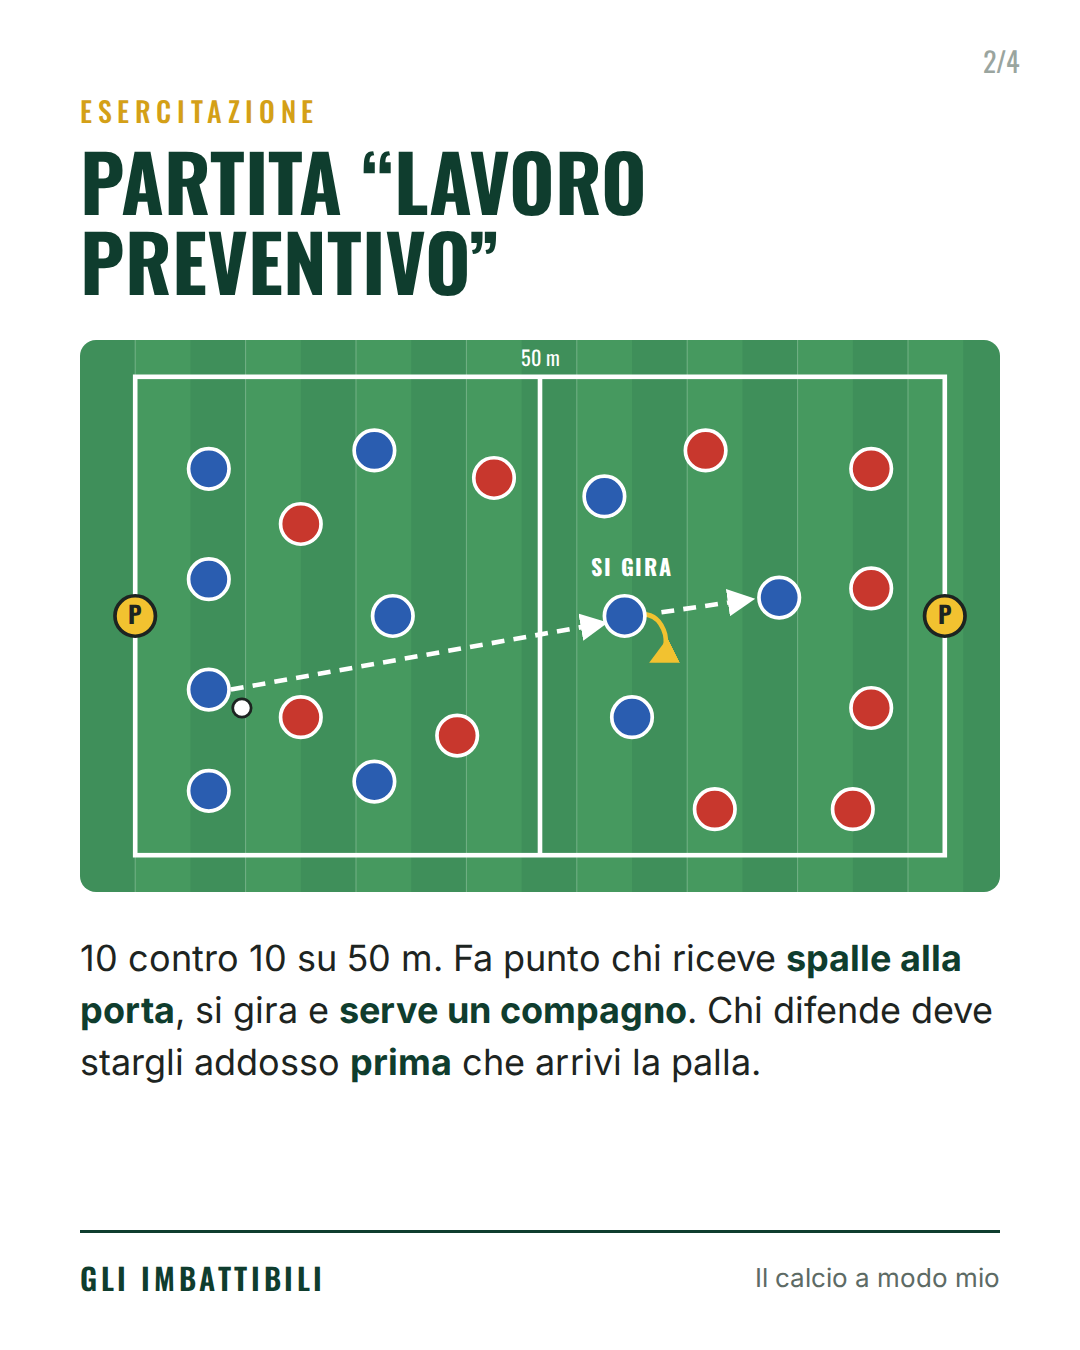
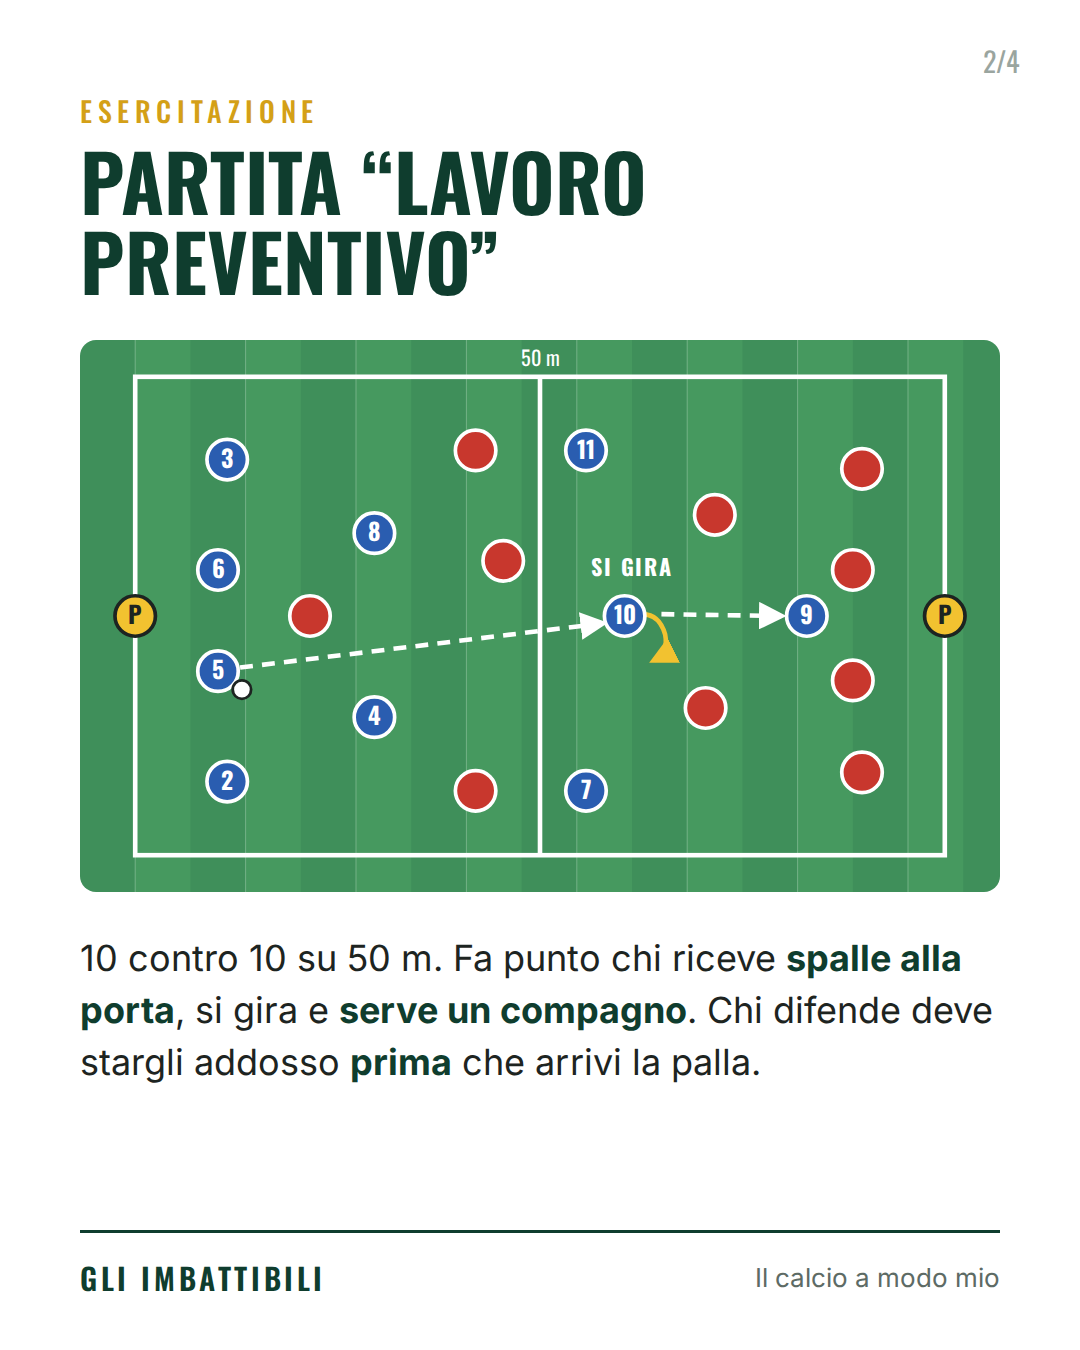
Post 2 Preventiva 1: schema in 4-2-3-1 numerato (10 + portiere)
Claude-Session: https://claude.ai/code/session_01T1DvqVhXRKVRXxiAqrgsV9

diff --git a/marketing/social/post-4x5.html b/marketing/social/post-4x5.html
@@ -122,12 +122,12 @@ h1, h2 { font-family: Oswald, sans-serif; font-weight: 700; text-transform: uppe
     </g>
     <text x="250" y="14" fill="#fff" font-family="Oswald" font-size="11" text-anchor="middle">50 m</text>
     <use href="#pP" x="30" y="150"/><text x="30" y="154.5" font-family="Oswald" font-size="13" font-weight="700" text-anchor="middle" fill="#1d2421">P</text><use href="#pP" x="470" y="150"/><text x="470" y="154.5" font-family="Oswald" font-size="13" font-weight="700" text-anchor="middle" fill="#1d2421">P</text>
-    <use href="#pA" x="430" y="70"/><use href="#pA" x="430" y="135"/><use href="#pA" x="430" y="200"/><use href="#pA" x="420" y="255"/><use href="#pA" x="340" y="60"/><use href="#pA" x="345" y="255"/><use href="#pA" x="225" y="75"/><use href="#pA" x="205" y="215"/><use href="#pA" x="120" y="100"/><use href="#pA" x="120" y="205"/><use href="#pB" x="70" y="70"/><use href="#pB" x="70" y="130"/><use href="#pB" x="70" y="190"/><use href="#pB" x="70" y="245"/><use href="#pB" x="160" y="60"/><use href="#pB" x="170" y="150"/><use href="#pB" x="160" y="240"/><use href="#pB" x="285" y="85"/><use href="#pB" x="300" y="205"/><use href="#pB" x="380" y="140"/>
-    <path d="M82,190 L284,154" stroke="#fff" stroke-width="2.5" fill="none" stroke-dasharray="7 5" marker-end="url(#freccia)"/>
+    <use href="#pA" x="425" y="70"/><use href="#pA" x="420" y="125"/><use href="#pA" x="420" y="185"/><use href="#pA" x="425" y="235"/><use href="#pA" x="345" y="95"/><use href="#pA" x="340" y="200"/><use href="#pA" x="215" y="60"/><use href="#pA" x="230" y="120"/><use href="#pA" x="215" y="245"/><use href="#pA" x="125" y="150"/><use href="#pB" x="80" y="65"/><text x="80" y="69.5" font-family="Oswald" font-size="13" font-weight="700" text-anchor="middle" fill="#fff">3</text><use href="#pB" x="75" y="125"/><text x="75" y="129.5" font-family="Oswald" font-size="13" font-weight="700" text-anchor="middle" fill="#fff">6</text><use href="#pB" x="75" y="180"/><text x="75" y="184.5" font-family="Oswald" font-size="13" font-weight="700" text-anchor="middle" fill="#fff">5</text><use href="#pB" x="80" y="240"/><text x="80" y="244.5" font-family="Oswald" font-size="13" font-weight="700" text-anchor="middle" fill="#fff">2</text><use href="#pB" x="160" y="105"/><text x="160" y="109.5" font-family="Oswald" font-size="13" font-weight="700" text-anchor="middle" fill="#fff">8</text><use href="#pB" x="160" y="205"/><text x="160" y="209.5" font-family="Oswald" font-size="13" font-weight="700" text-anchor="middle" fill="#fff">4</text><use href="#pB" x="275" y="60"/><text x="275" y="64.5" font-family="Oswald" font-size="13" font-weight="700" text-anchor="middle" fill="#fff">11</text><use href="#pB" x="275" y="245"/><text x="275" y="249.5" font-family="Oswald" font-size="13" font-weight="700" text-anchor="middle" fill="#fff">7</text><use href="#pB" x="395" y="150"/><text x="395" y="154.5" font-family="Oswald" font-size="13" font-weight="700" text-anchor="middle" fill="#fff">9</text>
+    <path d="M87,178 L284,154" stroke="#fff" stroke-width="2.5" fill="none" stroke-dasharray="7 5" marker-end="url(#freccia)"/>
     <path d="M300,150 q14,-4 18,10 q2,10 -6,14" stroke="#f2c230" stroke-width="2.5" fill="none" marker-end="url(#freccia-oro)"/>
-    <use href="#pB" x="296" y="150"/><path d="M316,148 L364,141" stroke="#fff" stroke-width="2.5" fill="none" stroke-dasharray="7 5" marker-end="url(#freccia)"/>
+    <use href="#pB" x="296" y="150"/><text x="296" y="154.5" font-family="Oswald" font-size="13" font-weight="700" text-anchor="middle" fill="#fff">10</text><path d="M316,149 L381,150" stroke="#fff" stroke-width="2.5" fill="none" stroke-dasharray="7 5" marker-end="url(#freccia)"/>
     <text x="300" y="128" font-family="Oswald" font-size="12" font-weight="700" fill="#fff" text-anchor="middle" letter-spacing="1">SI GIRA</text>
-    <use href="#palla" x="88" y="200"/>
+    <use href="#palla" x="88" y="190"/>
   </svg></div>
   <p class="desc">10 contro 10 su 50 m. Fa punto chi riceve <b>spalle alla porta</b>, si gira e <b>serve un compagno</b>. Chi difende deve stargli addosso <b>prima</b> che arrivi la palla.</p>
   <div class="marchio"><b>GLI IMBATTIBILI</b><span>Il calcio a modo mio</span></div>

diff --git a/marketing/social/post-9x16.html b/marketing/social/post-9x16.html
@@ -122,12 +122,12 @@ h1, h2 { font-family: Oswald, sans-serif; font-weight: 700; text-transform: uppe
     </g>
     <text x="250" y="14" fill="#fff" font-family="Oswald" font-size="11" text-anchor="middle">50 m</text>
     <use href="#pP" x="30" y="150"/><text x="30" y="154.5" font-family="Oswald" font-size="13" font-weight="700" text-anchor="middle" fill="#1d2421">P</text><use href="#pP" x="470" y="150"/><text x="470" y="154.5" font-family="Oswald" font-size="13" font-weight="700" text-anchor="middle" fill="#1d2421">P</text>
-    <use href="#pA" x="430" y="70"/><use href="#pA" x="430" y="135"/><use href="#pA" x="430" y="200"/><use href="#pA" x="420" y="255"/><use href="#pA" x="340" y="60"/><use href="#pA" x="345" y="255"/><use href="#pA" x="225" y="75"/><use href="#pA" x="205" y="215"/><use href="#pA" x="120" y="100"/><use href="#pA" x="120" y="205"/><use href="#pB" x="70" y="70"/><use href="#pB" x="70" y="130"/><use href="#pB" x="70" y="190"/><use href="#pB" x="70" y="245"/><use href="#pB" x="160" y="60"/><use href="#pB" x="170" y="150"/><use href="#pB" x="160" y="240"/><use href="#pB" x="285" y="85"/><use href="#pB" x="300" y="205"/><use href="#pB" x="380" y="140"/>
-    <path d="M82,190 L284,154" stroke="#fff" stroke-width="2.5" fill="none" stroke-dasharray="7 5" marker-end="url(#freccia)"/>
+    <use href="#pA" x="425" y="70"/><use href="#pA" x="420" y="125"/><use href="#pA" x="420" y="185"/><use href="#pA" x="425" y="235"/><use href="#pA" x="345" y="95"/><use href="#pA" x="340" y="200"/><use href="#pA" x="215" y="60"/><use href="#pA" x="230" y="120"/><use href="#pA" x="215" y="245"/><use href="#pA" x="125" y="150"/><use href="#pB" x="80" y="65"/><text x="80" y="69.5" font-family="Oswald" font-size="13" font-weight="700" text-anchor="middle" fill="#fff">3</text><use href="#pB" x="75" y="125"/><text x="75" y="129.5" font-family="Oswald" font-size="13" font-weight="700" text-anchor="middle" fill="#fff">6</text><use href="#pB" x="75" y="180"/><text x="75" y="184.5" font-family="Oswald" font-size="13" font-weight="700" text-anchor="middle" fill="#fff">5</text><use href="#pB" x="80" y="240"/><text x="80" y="244.5" font-family="Oswald" font-size="13" font-weight="700" text-anchor="middle" fill="#fff">2</text><use href="#pB" x="160" y="105"/><text x="160" y="109.5" font-family="Oswald" font-size="13" font-weight="700" text-anchor="middle" fill="#fff">8</text><use href="#pB" x="160" y="205"/><text x="160" y="209.5" font-family="Oswald" font-size="13" font-weight="700" text-anchor="middle" fill="#fff">4</text><use href="#pB" x="275" y="60"/><text x="275" y="64.5" font-family="Oswald" font-size="13" font-weight="700" text-anchor="middle" fill="#fff">11</text><use href="#pB" x="275" y="245"/><text x="275" y="249.5" font-family="Oswald" font-size="13" font-weight="700" text-anchor="middle" fill="#fff">7</text><use href="#pB" x="395" y="150"/><text x="395" y="154.5" font-family="Oswald" font-size="13" font-weight="700" text-anchor="middle" fill="#fff">9</text>
+    <path d="M87,178 L284,154" stroke="#fff" stroke-width="2.5" fill="none" stroke-dasharray="7 5" marker-end="url(#freccia)"/>
     <path d="M300,150 q14,-4 18,10 q2,10 -6,14" stroke="#f2c230" stroke-width="2.5" fill="none" marker-end="url(#freccia-oro)"/>
-    <use href="#pB" x="296" y="150"/><path d="M316,148 L364,141" stroke="#fff" stroke-width="2.5" fill="none" stroke-dasharray="7 5" marker-end="url(#freccia)"/>
+    <use href="#pB" x="296" y="150"/><text x="296" y="154.5" font-family="Oswald" font-size="13" font-weight="700" text-anchor="middle" fill="#fff">10</text><path d="M316,149 L381,150" stroke="#fff" stroke-width="2.5" fill="none" stroke-dasharray="7 5" marker-end="url(#freccia)"/>
     <text x="300" y="128" font-family="Oswald" font-size="12" font-weight="700" fill="#fff" text-anchor="middle" letter-spacing="1">SI GIRA</text>
-    <use href="#palla" x="88" y="200"/>
+    <use href="#palla" x="88" y="190"/>
   </svg></div>
   <p class="desc">10 contro 10 su 50 m. Fa punto chi riceve <b>spalle alla porta</b>, si gira e <b>serve un compagno</b>. Chi difende deve stargli addosso <b>prima</b> che arrivi la palla.</p>
   <div class="marchio"><b>GLI IMBATTIBILI</b><span>Il calcio a modo mio</span></div>

diff --git a/marketing/social/genera-post.py b/marketing/social/genera-post.py
@@ -52,12 +52,13 @@ schema_cross = mezzo_campo(
     + g(140, 60, "pB", 2) + g(200, 74, "pB", 5) + g(262, 88, "pB", 6) + g(324, 102, "pB", 3)
     + g(172, 108, "pB", 4) + g(232, 122, "pB", 8))
 
-blu = (g(70, 70, "pB") + g(70, 130, "pB") + g(70, 190, "pB") + g(70, 245, "pB")
-       + g(160, 60, "pB") + g(170, 150, "pB") + g(160, 240, "pB")
-       + g(285, 85, "pB") + g(300, 205, "pB") + g(380, 140, "pB"))
-rossi = (g(430, 70, "pA") + g(430, 135, "pA") + g(430, 200, "pA") + g(420, 255, "pA")
-         + g(340, 60, "pA") + g(345, 255, "pA") + g(225, 75, "pA")
-         + g(205, 215, "pA") + g(120, 100, "pA") + g(120, 205, "pA"))
+# 4-2-3-1 (attacca verso destra: il 2 e il 7 sul lato destro, cioè in basso). Il 10 è quello che si gira.
+blu = (g(80, 65, "pB", "3") + g(75, 125, "pB", "6") + g(75, 180, "pB", "5") + g(80, 240, "pB", "2")
+       + g(160, 105, "pB", "8") + g(160, 205, "pB", "4")
+       + g(275, 60, "pB", "11") + g(275, 245, "pB", "7") + g(395, 150, "pB", "9"))
+rossi = (g(425, 70, "pA") + g(420, 125, "pA") + g(420, 185, "pA") + g(425, 235, "pA")
+         + g(345, 95, "pA") + g(340, 200, "pA")
+         + g(215, 60, "pA") + g(230, 120, "pA") + g(215, 245, "pA") + g(125, 150, "pA"))
 schema_partita = f'''<svg class="schema" viewBox="0 0 500 300">
     <rect width="500" height="300" fill="url(#strisce)"/>
     <g fill="none" stroke="#fff" stroke-width="2.5">
@@ -66,11 +67,11 @@ schema_partita = f'''<svg class="schema" viewBox="0 0 500 300">
     <text x="250" y="14" fill="#fff" font-family="Oswald" font-size="11" text-anchor="middle">50 m</text>
     {g(30, 150, "pP", "P", "#1d2421")}{g(470, 150, "pP", "P", "#1d2421")}
     {rossi}{blu}
-    {freccia("M82,190 L284,154", tratteggio=True)}
+    {freccia("M87,178 L284,154", tratteggio=True)}
     <path d="M300,150 q14,-4 18,10 q2,10 -6,14" stroke="#f2c230" stroke-width="2.5" fill="none" marker-end="url(#freccia-oro)"/>
-    {g(296, 150, "pB")}{freccia("M316,148 L364,141", tratteggio=True)}
+    {g(296, 150, "pB", "10")}{freccia("M316,149 L381,150", tratteggio=True)}
     <text x="300" y="128" font-family="Oswald" font-size="12" font-weight="700" fill="#fff" text-anchor="middle" letter-spacing="1">SI GIRA</text>
-    <use href="#palla" x="88" y="200"/>
+    <use href="#palla" x="88" y="190"/>
   </svg>'''
 
 schema_gioco = f'''<svg class="schema" viewBox="60 0 380 340">

diff --git a/marketing/passaggio-di-consegne.md b/marketing/passaggio-di-consegne.md
@@ -21,3 +21,8 @@
 - Domenica sera: chiedergli gli screenshot settimanali (IG, TikTok, FB). 16/10: statistiche Etsy.
 - PDF Allenamento 4: "laterale e verticale" → "laterale o verticale" (conversazione ALLENAMENTI).
 - Foto allenamenti 12-20 entro sab 10 per l'uscita Etsy di gio 15 (11-20).
+
+## Regola schemi dei post (6/10)
+Anche negli schemi dei post social le squadre intere vanno in **4-2-3-1** numerato (difesa 2-5-6-3, mediani 4 e 8,
+esterni 7 e 11, 10, 9): 10 giocatori di movimento + portiere. Corretto lo schema della Preventiva 1 (post 2):
+il 5 serve il 10, il 10 si gira e serve il 9. Vale anche per il post 3.
